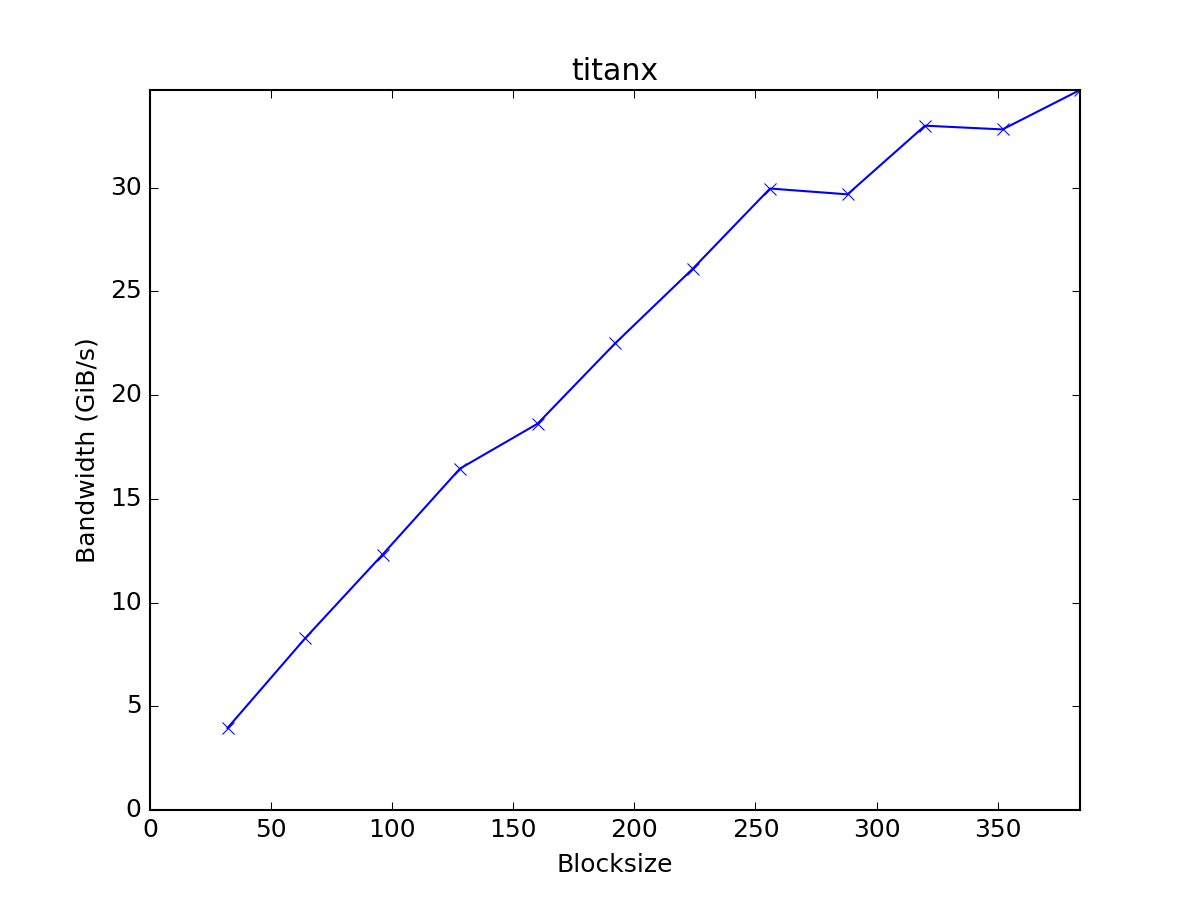
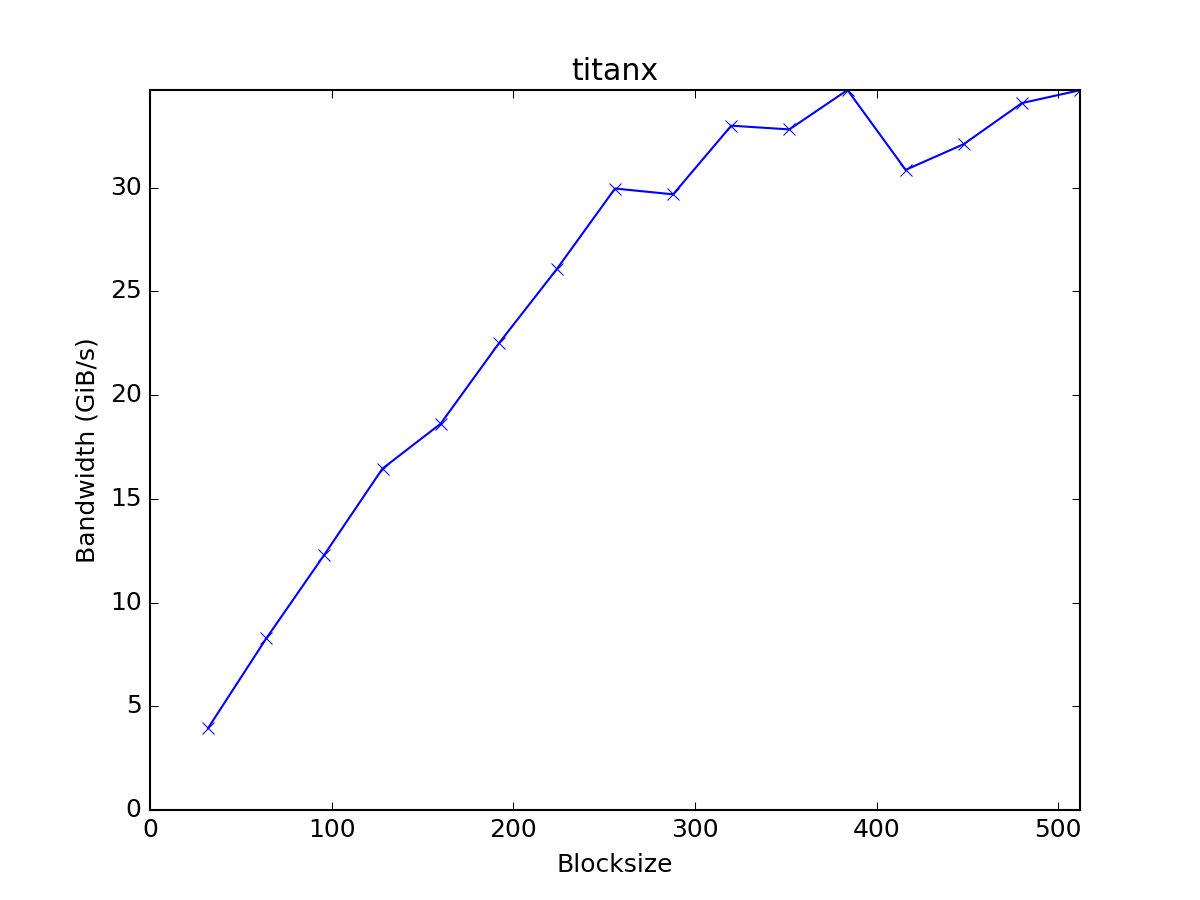
update titanx blocksize graph, and change grid max for titanx

diff --git a/gpuexperiments/globalwrite_gridsize.py b/gpuexperiments/globalwrite_gridsize.py
@@ -56,7 +56,8 @@ for experiment in experiments:
     template = jinja2.Template(experiment['code'], undefined=jinja2.StrictUndefined)
     blockSize = 32
     grid_x = 1
-    while grid_x <= 64:
+    grid_max = 64 if deviceSimpleName == '940m' else 128
+    while grid_x <= grid_max:
         name = experiment['name'].format(gridsize=grid_x)
         if args.printptx:
             clearComputeCache()

diff --git a/gpuexperiments/globalwrite_blocksize_graphs.py b/gpuexperiments/globalwrite_blocksize_graphs.py
@@ -65,7 +65,8 @@ for i, name in enumerate(names):
     plt.plot(X, Y, '-x', label=name)
     thismax = max(thismax, max(Y))
     maxx = max(maxx, max(X))
-maxx = 384
+if args.devicename == '940m':
+    maxx = 384
 
 #plt.axis([0, max(X), 0, max(Y)])
 plt.axis([0, maxx, 0, thismax])
